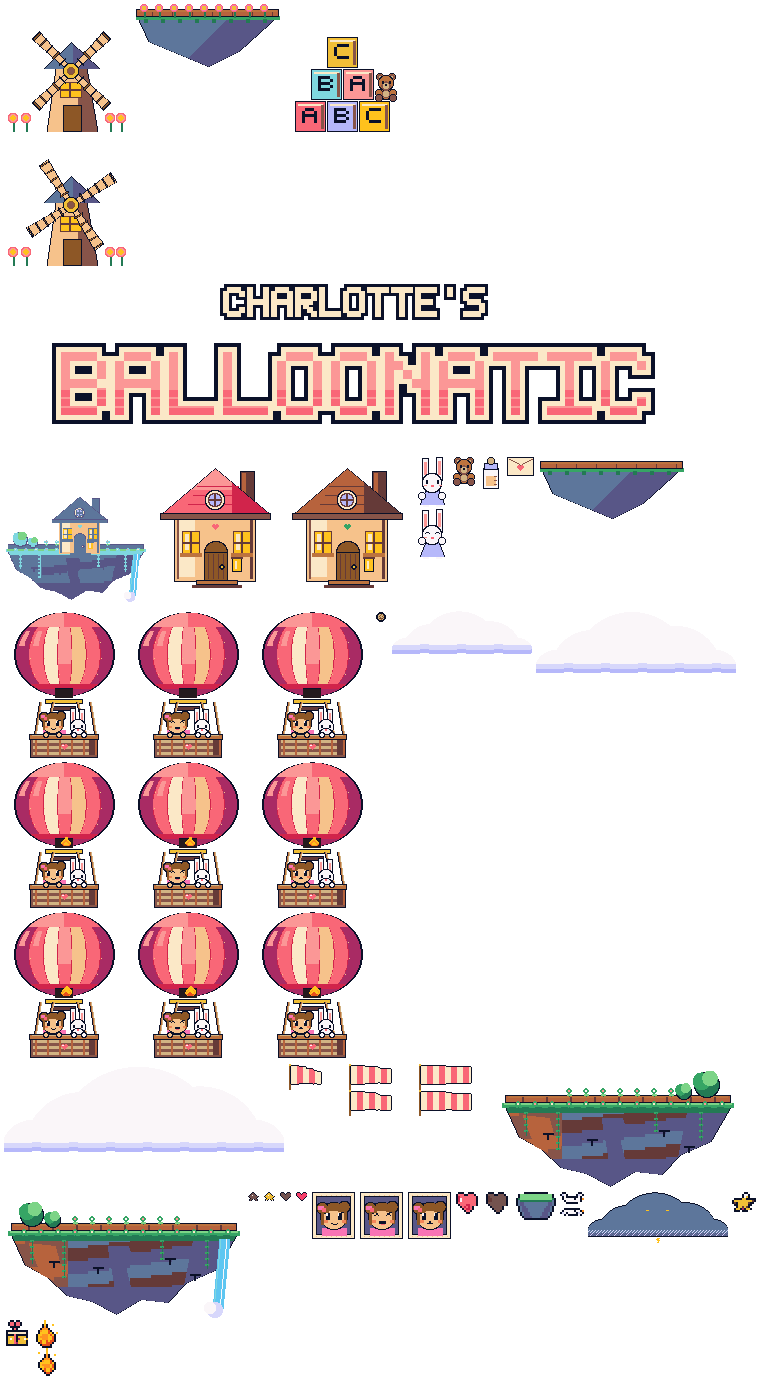
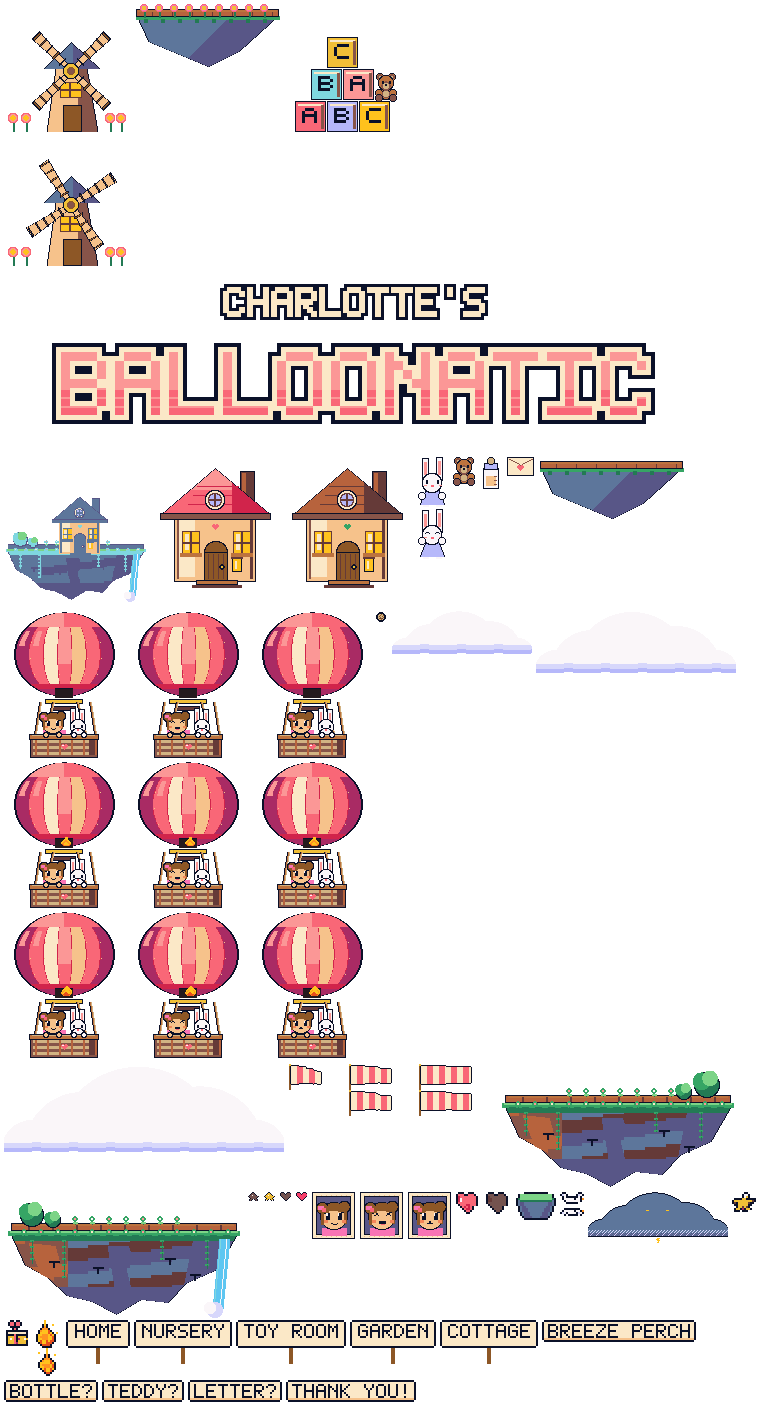
fix(signs): move lettering and boards as one world sprite
Initiative: 32 (stable world signs). Bake shared pixel glyphs, paper board and post through Aseprite; keep sign/platform placement on the half-pixel world grid. Verified: npm run art audit, 61 slices; npm run check, zero compiler warnings, 83 unit tests and 120 browser tests. Reviewed docs/screenshots/32-signs-phase*-{desktop,narrow}.png; worldsigns bridge proves fixed parent offsets across fractional camera phases and unchanged sim hashes.

diff --git a/art/.art/generate.js b/art/.art/generate.js
@@ -749,6 +749,29 @@ const SPRITES = {
   "flame-hud":    { w: 28, h: 28, frames: FLAME_HUD.map(x2) },
 };
 
+// Bake moving boards and lettering together on the same internal pixel grid.
+const signFontSource=require('fs').readFileSync(require('path').join(__dirname,
+  '../../Balloonatic/Balloonatic.Game/Rendering/PixelFont.cs'),'utf8');
+const signGlyphs=Object.fromEntries([...signFontSource.matchAll(/\['([^']+)'\] = Split\("([^"]+)"\)/g)].map(m=>[m[1],m[2].split('|')]));
+function worldSign(text,post) {
+  const w=post?Math.max(32,text.length*6+7):text.length*6+5,h=post?14:11,px=[];
+  if(post)px.push(...fillPixels(w-2,h*2,4,16,PAL.bark));
+  px.push(...fillPixels(0,2,w*2,h*2-4,PAL.K),...fillPixels(2,0,w*2-4,h*2,PAL.K));
+  px.push(...fillPixels(2,2,w*2-4,h*2-4,PAL.paper));
+  if(!post)px.push(...fillPixels(2,(h-2)*2,w*2-4,2,PAL.paperWarm));
+  const tx=post?Math.floor((w*2-(text.length*6-1)*2)/2):6;
+  [...text].forEach((ch,i)=>{
+    if(ch===' ')return;
+    if(!signGlyphs[ch])throw new Error('Missing sign glyph: '+ch);
+    signGlyphs[ch].forEach((row,y)=>[...row].forEach((v,x)=>{
+      if(v==='#')px.push(...fillPixels(tx+(i*6+x)*2,4+y*2,2,2,PAL.K));
+    }));
+  });
+  return {w:w*2,h:(h+(post?8:0))*2,frames:[px]};
+}
+for(const [name,text]of Object.entries({home:'HOME',nursery:'NURSERY',toy:'TOY ROOM',garden:'GARDEN',cottage:'COTTAGE'}))SPRITES['sign-'+name]=worldSign(text,true);
+for(const [name,text]of Object.entries({perch:'BREEZE PERCH',bottle:'BOTTLE?',teddy:'TEDDY?',letter:'LETTER?',thanks:'THANK YOU!'}))SPRITES['tag-'+name]=worldSign(text,false);
+
 function pack(sheetWidth) {
   const out = [];
   let x = 4, y = 4, rowH = 0;

diff --git a/tests/signs.spec.js b/tests/signs.spec.js
@@ -1,0 +1,22 @@
+const {test,expect}=require('@playwright/test');
+const path=require('path');
+const {bootGame,act,reviewShot,SHOTS_DIR,watchForErrors}=require('./support');
+
+test('world sign sprites keep their lettering and platform attachment through fractional camera motion',async({page},info)=>{
+ const errors=watchForErrors(page);await bootGame(page);await act(page,'reset=3232');
+ await act(page,'screen=world');const poses=[];
+ for(let phase=0;phase<4;phase++){
+  await page.evaluate(value=>window.__GAME.raw('warp',`${130+value}=${120+value}`),phase/4);
+  const hash=await act(page,'hash');
+  const signs=JSON.parse(await page.evaluate(()=>window.__GAME.raw('worldsigns')));
+  for(const sign of signs){expect(sign.ready).toBe(true);expect(sign.asset).toMatch(/^(sign|tag)-/);
+   expect(sign.x*2).toBe(Math.round(sign.x*2));expect(sign.y*2).toBe(Math.round(sign.y*2));}
+  const home=signs.find(s=>s.text==='HOME'),perch=signs.find(s=>s.text==='BREEZE PERCH');
+  expect(home.x-home.parentX).toBe(-16);expect(home.y-home.parentY).toBe(-16);
+  expect(perch.x-perch.parentX).toBe(-30);expect(perch.y-perch.parentY).toBe(10);
+  poses.push(home.x);
+  await reviewShot(page,{path:path.join(SHOTS_DIR,`32-signs-phase${phase}-${info.project.name}.png`)});
+  expect(await act(page,'hash')).toBe(hash);
+ }
+ expect(new Set(poses).size).toBeGreaterThan(1);expect(errors).toEqual([]);
+});

diff --git a/Balloonatic/Balloonatic.Game/Screens/WorldScreen.cs b/Balloonatic/Balloonatic.Game/Screens/WorldScreen.cs
@@ -150,6 +150,18 @@ namespace Balloonatic.Screens
         static float ScreenX(float worldX, float camX) => worldX - camX + Sim.DesignWidth / 2f;
         static float ScreenY(float altitude, float camAlt) => Sim.DesignHeight / 2f - (altitude - camAlt);
 
+        public static string SignsStatus(SimState state)
+        {
+            LevelDef level=LevelCatalog.Get(state.LevelId);
+            (float camX,float camAlt)=Camera(state,level);
+            float groundY=ScreenY(0,camAlt);
+            var signs=new System.Collections.Generic.List<string>{
+                WorldSigns.Island("HOME",ScreenX(0,camX),groundY).Json("HOME"),
+                WorldSigns.Island(level.DestinationName,ScreenX(level.CourseLength,camX),groundY).Json(level.DestinationName)};
+            foreach(RestDeck deck in level.Platforms)signs.Add(WorldSigns.Perch(ScreenX(deck.X,camX),ScreenY(deck.Altitude,camAlt)).Json("BREEZE PERCH"));
+            return "["+string.Join(",",signs)+"]";
+        }
+
         /// <summary>Text and only text keeps the coarse grid: type must not wobble by half a pixel.</summary>
         static int Round(float v) => (int)MathF.Round(v);
 
@@ -193,7 +205,7 @@ namespace Balloonatic.Screens
                 Sprites.Draw(canvas, WorldArt.Perch(level), x - deck.HalfWidth, y - 3);
                 WindBand wind = level.BandAt(deck.Altitude + 1f);
                 Kit.Windsock(canvas, x + 20, y, wind.Direction, wind.Strength);
-                Kit.Tag(canvas, Round(x)-30, Round(y)+10, "BREEZE PERCH");
+                WorldSigns.Perch(x,y).Draw(canvas);
             }
         }
 
@@ -213,23 +225,14 @@ namespace Balloonatic.Screens
             // Buildings sit on the rear edge; the clear timber deck in front is the landing surface.
             Sprites.Draw(canvas, WorldArt.Landmark(level, launch, Clock(state)), x - 6f, groundY - 105f);
 
-            // A sign on the deck: what this island is for, in the paper-and-ink language of the sheet.
-            // The board glides with the island; its lettering holds the coarse grid (Round) — text that
-            // half-steps inside a moving board looks broken, a board gliding under still text looks built.
-            float signY = groundY - 52;
-            int xi = Round(x);
-            canvas.Fill(x - 1, signY + 12, 2, 8, Theme.BarkBrown);
-            int signWidth = Math.Max(32, PixelFont.Width(name) + 8);
-            canvas.CutRectangle(x - signWidth / 2, signY - 2, signWidth, 14, 1, Theme.Ink);
-            canvas.Fill(x - signWidth / 2 + 1, signY - 1, signWidth - 2, 12, Theme.TagCream);
-            PixelFont.Draw(canvas, name, xi - name.Length * 3 + 1, Round(signY) + 2, Theme.Ink);
+            WorldSigns.Island(name,x,groundY).Draw(canvas);
             if (launch && state.CargoStatus == "waiting")
                 Sprites.Draw(canvas, WorldArt.Parcel(level.Package), x - 36, groundY - 53);
             if (!launch)
             {
                 Sprites.Draw(canvas, "recipient", state.Delivered ? 1 : 0, x + 37, groundY - 64);
                 if (state.Delivered) Sprites.Draw(canvas, WorldArt.Parcel(level.Package), x + 22, groundY - 53);
-                Kit.Tag(canvas, xi + 10, Round(groundY) - 120, state.Delivered ? "THANK YOU!" : level.RequestLabel);
+                WorldSigns.Recipient(canvas,level,state.Delivered,x+10,groundY-120);
             }
 
             // The windsock flies off the windward post of the deck — the truth about this altitude,

diff --git a/Balloonatic/Balloonatic.Game/Rendering/WorldSigns.cs b/Balloonatic/Balloonatic.Game/Rendering/WorldSigns.cs
@@ -1,0 +1,30 @@
+using System;
+using Balloonatic.Core;
+namespace Balloonatic.Rendering;
+
+/// <summary>One atlas quad contains a board, its text and post. They travel on the world grid.</summary>
+static class WorldSigns
+{
+    public readonly record struct Placement(string Asset,float X,float Y,float ParentX,float ParentY)
+    {
+        public string Json(string text)=>FormattableString.Invariant($"{{\"text\":\"{text}\",\"asset\":\"{Asset}\",\"ready\":{(Sprites.Has(Asset)?"true":"false")},\"x\":{X},\"y\":{Y},\"parentX\":{ParentX},\"parentY\":{ParentY}}}");
+        public void Draw(DesignCanvas canvas)=>Sprites.Draw(canvas,Asset,X,Y);
+    }
+    static float Snap(float value)=>MathF.Round(value*DesignCanvas.Px)/DesignCanvas.Px;
+    public static Placement Island(string text,float centre,float groundY)
+    {
+        string asset="sign-"+(text switch {"HOME"=>"home","NURSERY"=>"nursery","TOY ROOM"=>"toy","GARDEN"=>"garden",_=>"cottage"});
+        float x=Snap(centre),y=Snap(groundY);
+        return new Placement(asset,x-Sprites.Size(asset).X/2,y-54,x,y-38);
+    }
+    public static Placement Perch(float centre,float deckY)
+    {
+        float x=Snap(centre),y=Snap(deckY);
+        return new Placement("tag-perch",x-30,y+10,x,y);
+    }
+    public static void Recipient(DesignCanvas canvas,LevelDef level,bool delivered,float x,float y)
+    {
+        string asset=delivered?"tag-thanks":level.Package==CargoKind.Bottle?"tag-bottle":level.Package==CargoKind.Letter?"tag-letter":"tag-teddy";
+        Sprites.Draw(canvas,asset,x,y);
+    }
+}

diff --git a/Balloonatic/Balloonatic.Game/BalloonaticGame.cs b/Balloonatic/Balloonatic.Game/BalloonaticGame.cs
@@ -430,6 +430,7 @@ namespace Balloonatic
         }
         public string UiStatus() => UiLayout.Describe(canvas, Harness.State.Screen, Harness.State.Complete);
         public string CreditsText() => string.Join("|", CreditsScreen.Lines);
+        public string SignsStatus() => WorldScreen.SignsStatus(Harness.State);
         public string BackdropStatus() => SkyBackdrop.Describe(Harness.State);
         public string ArtStatus() => WorldArt.Describe(Harness.State);
 

diff --git a/Balloonatic/Balloonatic.Blazor.GL/Bridge.cs b/Balloonatic/Balloonatic.Blazor.GL/Bridge.cs
@@ -54,6 +54,7 @@ namespace Balloonatic
             if (name == "ui")
                 return game.UiStatus();
             if (name == "creditstext")return game.CreditsText();
+            if (name == "worldsigns")return game.SignsStatus();
             if (name == "backdrop")
                 return game.BackdropStatus();
             if (name == "art")

diff --git a/PLAN.md b/PLAN.md
@@ -149,13 +149,18 @@ recoverable flight, one meaningful beautiful delivery, readable UI and WebGL val
   Assert the displayed copy through the bridge and review desktop/narrow credits.
   Verified: zero compiler warnings, 83 unit tests and 118 browser tests; `creditstext` mirrors the
   displayed rows. Updated the two credits baselines and reviewed `31-credits-*` at both sizes.
-- [ ] **I32 — Stable world signs** (~60m)
+- [x] **I32 — Stable world signs** (~60m)
   Keep sign lettering, board and supporting world geometry on the same rendering grid during travel.
   Inspect a moving sequence and prove sign-to-platform placement through the bridge.
+  Verified: Aseprite palette audit (61 slices), zero compiler warnings, 83 unit tests and 120 browser
+  tests. World signs/recipient tags are single atlas quads; `worldsigns` reports their actual placement.
+  Fractional camera phases retain fixed parent offsets and unchanged sim hashes; reviewed `32-signs-*`.
 - [ ] **I33 — Platform contact and sliding** (~90m)
   Align deck artwork and collision surfaces, support ordinary landings across each full deck,
   and allow a landed basket to slide across to the delivery area. Prove edge approaches, takeoff,
   hard contacts, both drift directions and the full voyage in WebGL.
+- [ ] **I34 — Refresh the corrected review package** (~45m)
+  Fresh-clone and extracted-archive checks for the playtest fixes; refresh candidate evidence and ZIP.
 
 ## Design decisions (answers to `docs/CONCEPT.md` §16)
 1. **Burner:** hold-to-heat with a temperature integrator. No intensity slider — one verb, and the

diff --git a/art/README.md b/art/README.md
@@ -9,6 +9,9 @@ The same command exports the hero, logo and cloud crops for the WebGL loading sc
 and SVG pixel lettering are generated from `Theme.cs` and `PixelFont.cs` by `tools/build-boot.cjs`,
 so the page before WASM loads follows the same art and type rules as the game.
 
+World sign and recipient-tag slices also use the shared glyph masks. Their board, lettering and post
+are exported together, so camera travel moves one sprite rather than independently rounded text.
+
 Art-authoring prerequisites: Node, uv, Aseprite, and the Python Aseprite MCP server. Set
 `ASEPRITE_MCP_DIR` to the server checkout and `ASEPRITE_PATH` to the executable if they are outside
 the usual `~/Repos/aseprite-mcp` and Steam locations. The build reuses the same stdio entry point as

diff --git a/docs/STYLE.md b/docs/STYLE.md
@@ -8,7 +8,8 @@ an in-game texture. Current evidence is `docs/screenshots/21-*` through `30-*`.
 ## Canvas and pixels
 
 - Design space: **640×360**. Internal sprite/render density: **1280×720**.
-- World positions snap to half a design pixel; UI text snaps to whole design pixels.
+- World positions snap to half a design pixel; UI text snaps to whole design pixels. Moving world
+  signs have lettering and board baked into one Aseprite sprite, sharing the platform grid.
 - Nearest-neighbor, integer upscaling while the design canvas fits; fractional reduction below ×1.
 - Render-time letterboxing uses `Theme.LetterBox`. The canvas follows its page/container size.
 - Review at 1280×720 and 420×760. Narrow presentation still requires keyboard or mouse input.
